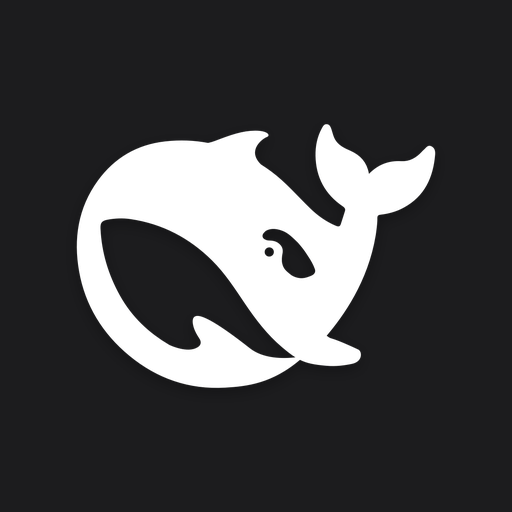
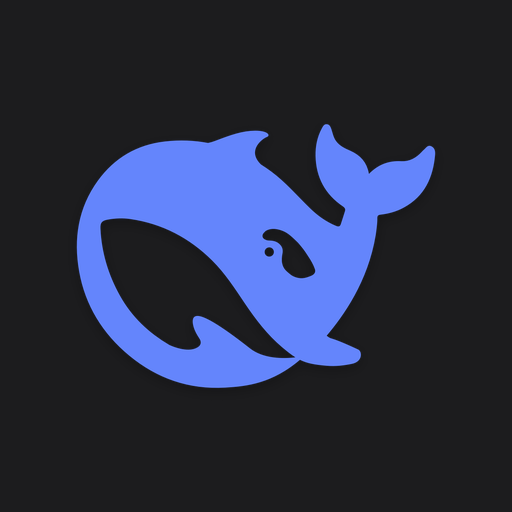
style(app): App 图标鲸鱼主色改为 #6485FC

Changed region(s): [[0.125, 0.2188, 0.875, 0.7812]]

diff --git a/app/Sources/DSHStatusBar/MenuBarIconRenderer.swift b/app/Sources/DSHStatusBar/MenuBarIconRenderer.swift
@@ -374,7 +374,10 @@ enum MenuBarIconRenderer {
 // MARK: - App 图标 / 弹窗图标（菜单栏同款鲸鱼，无底色）
 
 enum AppIconRenderer {
-    /// 透明底 + 白色鲸鱼（带极细深色描边，浅色背景也可见）。
+    /// App 图标的鲸鱼主色（#6485FC）。
+    static let brandColor = NSColor(hex: 0x6485FC)
+
+    /// 透明底 + 品牌蓝鲸鱼（轻微投影，深浅背景都可见）。
     /// 与菜单栏空闲态同一 glyph，不放圆角方块，避免和 DeepSeek Harness 官方图标混淆。
     static func image(size: CGFloat) -> NSImage {
         NSImage(size: NSSize(width: size, height: size), flipped: false) { rect in
@@ -390,12 +393,12 @@ enum AppIconRenderer {
 
             // 轻微投影：浅色背景上也能看清轮廓；不添加任何底色/描边
             let shadow = NSShadow()
-            shadow.shadowColor = NSColor.black.withAlphaComponent(0.30)
-            shadow.shadowBlurRadius = size * 0.035
-            shadow.shadowOffset = NSSize(width: 0, height: -size * 0.010)
+            shadow.shadowColor = NSColor.black.withAlphaComponent(0.26)
+            shadow.shadowBlurRadius = size * 0.030
+            shadow.shadowOffset = NSSize(width: 0, height: -size * 0.008)
             shadow.set()
 
-            NSColor.white.setFill()
+            brandColor.setFill()
             path.fill()
             return true
         }

diff --git a/README.md b/README.md
@@ -5,8 +5,8 @@
 
 ## 当前状态（2026-11-03）
 
-- **App 图标**：与菜单栏空闲态同款的鲸鱼 glyph，**透明底、无圆角方块**（构建时由 `WhaleLogo` 生成 `.icns`），
-  避免和 DeepSeek Harness 官方图标混淆
+- **App 图标**：与菜单栏空闲态同款的鲸鱼 glyph，**透明底、无圆角方块、主色 `#6485FC`**
+  （构建时由 `WhaleLogo` 生成 `.icns`），避免和 DeepSeek Harness 官方图标混淆
 - **P0 已完成**：Swift 菜单栏 App 可用——**鲸鱼 + 分段圆环图标**（空闲=纯白鲸鱼；非空闲=按任务数等分、
   段色=状态（待回答黄 `#F2B900` / 运行中蓝 `#0A84FF` / 已完成绿 `#34C759` / 已停止红的系统色）
   的圆环；中心=关注数，只有运行中时不显示数字）、面板、**设置页**（自定义显示状态 / 隐藏项目 / 中心数字 / 段数上限 / 通知）、

diff --git a/docs/app-design.md b/docs/app-design.md
@@ -122,8 +122,8 @@
   - 已授权：面板正常，铃铛可切换待回答通知。
 - 设置页「通知」组顶部同样显示系统通知状态与操作按钮；发送通知不再依赖启动时的缓存
   `authorized` 标志（权限可能在运行中被用户打开）。
-- App 图标使用与菜单栏空闲态同款的鲸鱼 glyph：透明底、无圆角方块（构建时由 `WhaleLogo` 生成 `.icns`），
-  与宿主 DeepSeek Harness 的官方图标区分开；退出确认弹窗也用同一 glyph。
+- App 图标使用与菜单栏空闲态同款的鲸鱼 glyph：**透明底、无圆角方块、主色 `#6485FC`**
+  （构建时由 `WhaleLogo` 生成 `.icns`），与宿主 DeepSeek Harness 的官方图标区分开；退出确认弹窗也用同一 glyph。
 
 ### 4.1 行为
 
